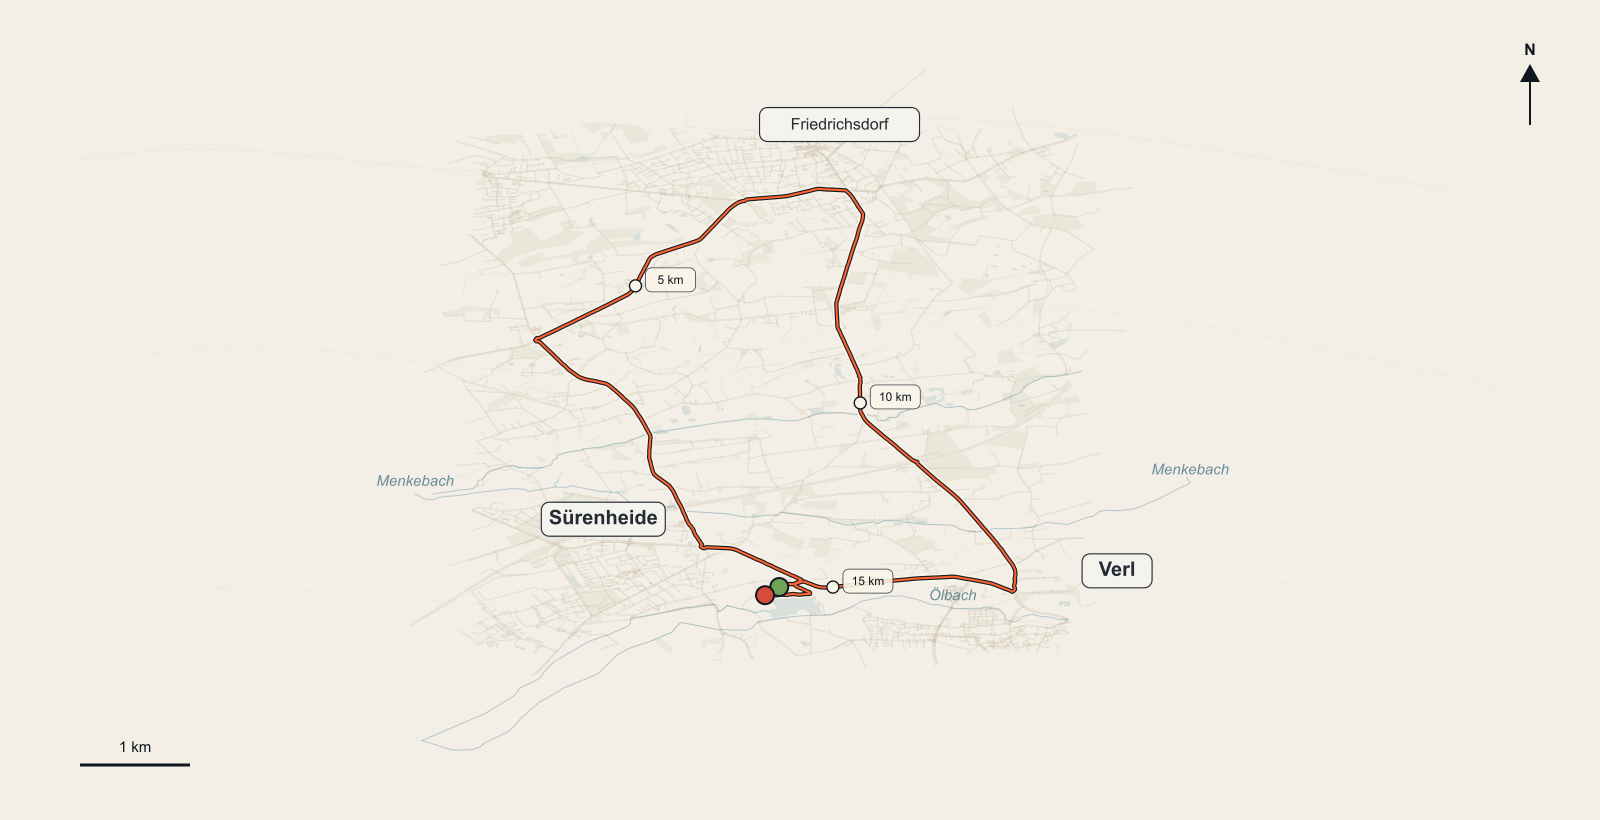
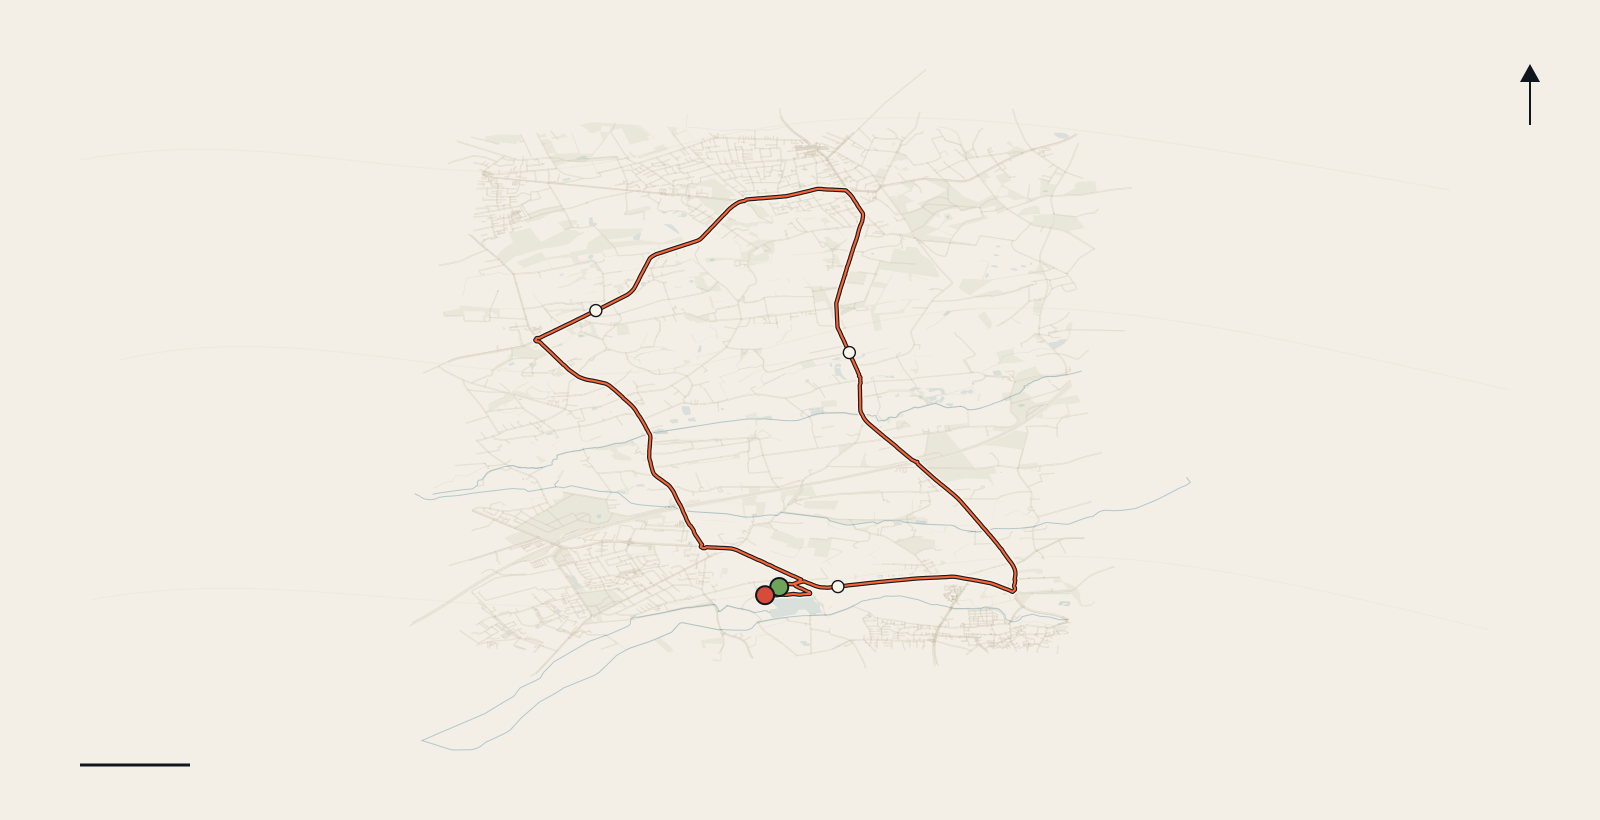
Fix static route map label rendering

diff --git a/scripts/generate-route-map.ts b/scripts/generate-route-map.ts
@@ -100,6 +100,10 @@ const WIDTH = 1600;
 const HEIGHT = 820;
 const EARTH_RADIUS_METERS = 6371000;
 const DISTANCE_MARKER_INTERVAL_METERS = 5000;
+// Headless SVG-to-PNG font fallback can render text as tofu boxes; keep labels
+// opt-in until a bundled font is added.
+const RENDER_STATIC_MAP_TEXT_LABELS =
+  process.env.ROUTE_MAP_TEXT_LABELS === "1";
 
 export type GeneratedRouteMap = {
   activityId: string;
@@ -705,7 +709,7 @@ function renderMapSvg(
           );
         }
 
-        if (important && name) {
+        if (RENDER_STATIC_MAP_TEXT_LABELS && important && name) {
           const candidates: RouteLabelCandidate[] = (points as [number, number][])
             .filter(([x, y]: [number, number]) => {
               return x > 70 && x < WIDTH - 70 && y > 70 && y < HEIGHT - 70;
@@ -775,14 +779,16 @@ function renderMapSvg(
             routePoints,
           });
 
-      placeLabels.push(`
-        <g>
-          <rect x="${labelPosition.x - boxWidth / 2}" y="${labelPosition.y - boxHeight / 2}" width="${boxWidth}" height="${boxHeight}" rx="8" fill="#f5f3ee" stroke="#242b32" stroke-width="1.15" opacity="1" />
-          <text x="${labelPosition.x}" y="${labelPosition.y + 5}" font-family="Arial, sans-serif" font-size="${fontSize}" font-weight="${fontWeight}" fill="#242b32" text-anchor="middle" opacity="1">
-            ${escapeXml(name)}
-          </text>
-        </g>
-      `);
+      if (RENDER_STATIC_MAP_TEXT_LABELS) {
+        placeLabels.push(`
+          <g>
+            <rect x="${labelPosition.x - boxWidth / 2}" y="${labelPosition.y - boxHeight / 2}" width="${boxWidth}" height="${boxHeight}" rx="8" fill="#f5f3ee" stroke="#242b32" stroke-width="1.15" opacity="1" />
+            <text x="${labelPosition.x}" y="${labelPosition.y + 5}" font-family="Arial, sans-serif" font-size="${fontSize}" font-weight="${fontWeight}" fill="#242b32" text-anchor="middle" opacity="1">
+              ${escapeXml(name)}
+            </text>
+          </g>
+        `);
+      }
     }
   }
 
@@ -807,8 +813,12 @@ function renderMapSvg(
     kmMarkers.push(`
       <g>
         <circle cx="${x}" cy="${y}" r="6" fill="#faf5e9" stroke="#10161d" stroke-width="1.4" />
-        <rect x="${x + 10}" y="${y - 18}" width="50" height="24" rx="6" fill="#faf5e9" stroke="#10161d" stroke-width="0.7" opacity="0.9" />
-        <text x="${x + 35}" y="${y - 2}" font-family="Arial, sans-serif" font-size="12" fill="#10161d" text-anchor="middle">${marker.label}</text>
+        ${
+          RENDER_STATIC_MAP_TEXT_LABELS
+            ? `<rect x="${x + 10}" y="${y - 18}" width="50" height="24" rx="6" fill="#faf5e9" stroke="#10161d" stroke-width="0.7" opacity="0.9" />
+        <text x="${x + 35}" y="${y - 2}" font-family="Arial, sans-serif" font-size="12" fill="#10161d" text-anchor="middle">${marker.label}</text>`
+            : ""
+        }
       </g>
     `);
   }
@@ -841,13 +851,21 @@ function renderMapSvg(
 
   <g>
     <line x1="80" y1="${HEIGHT - 55}" x2="190" y2="${HEIGHT - 55}" stroke="#10161d" stroke-width="3" />
-    <text x="135" y="${HEIGHT - 68}" font-family="Arial, sans-serif" font-size="15" fill="#10161d" text-anchor="middle">1 km</text>
+    ${
+      RENDER_STATIC_MAP_TEXT_LABELS
+        ? `<text x="135" y="${HEIGHT - 68}" font-family="Arial, sans-serif" font-size="15" fill="#10161d" text-anchor="middle">1 km</text>`
+        : ""
+    }
   </g>
 
   <g>
     <line x1="${WIDTH - 70}" y1="125" x2="${WIDTH - 70}" y2="75" stroke="#10161d" stroke-width="2" />
     <path d="M ${WIDTH - 70} 64 L ${WIDTH - 80} 82 L ${WIDTH - 60} 82 Z" fill="#10161d" />
-    <text x="${WIDTH - 70}" y="55" font-family="Arial, sans-serif" font-size="16" font-weight="700" fill="#10161d" text-anchor="middle">N</text>
+    ${
+      RENDER_STATIC_MAP_TEXT_LABELS
+        ? `<text x="${WIDTH - 70}" y="55" font-family="Arial, sans-serif" font-size="16" font-weight="700" fill="#10161d" text-anchor="middle">N</text>`
+        : ""
+    }
   </g>
 </svg>
 `;
